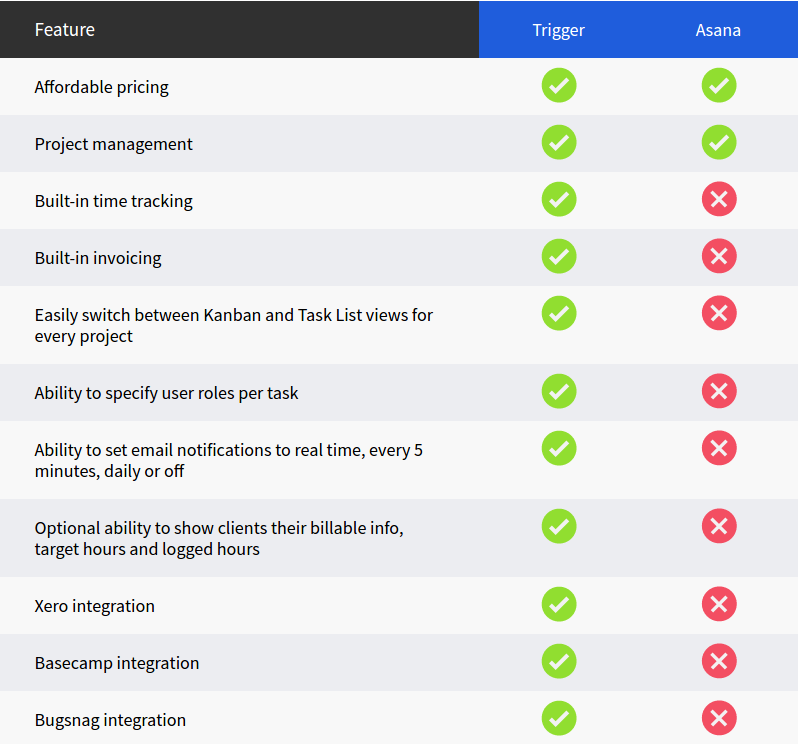
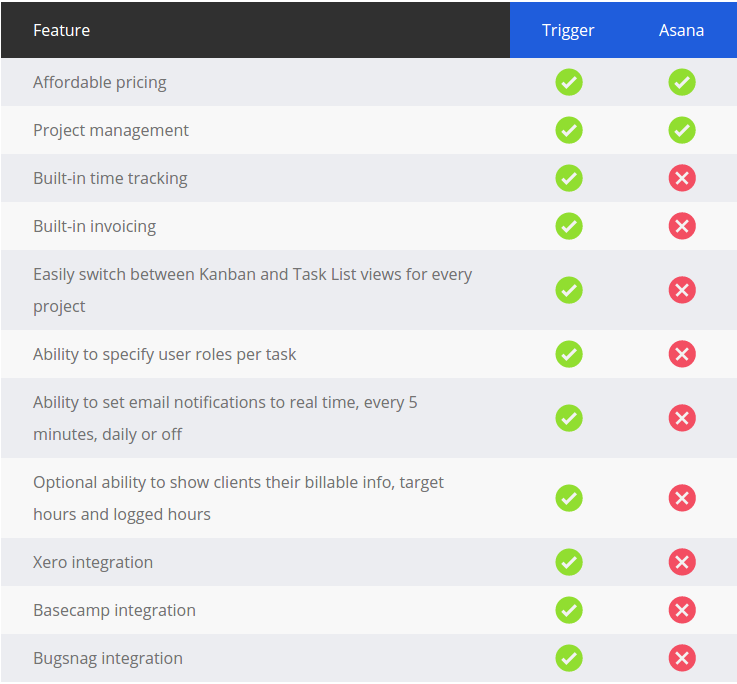
[T24972] Add and replace the 2 comparing table

diff --git a/_site/2017/05/7-reasons-why-trigger-is-the-best-alternative-to-workflowmax/index.html b/_site/2017/05/7-reasons-why-trigger-is-the-best-alternative-to-workflowmax/index.html
@@ -177,6 +177,10 @@
 
 <p> </p>
 
+<p><img src="/assets/compare-workflow-max/compare_table.png" alt="Trigger vs. WorkflowMax" /></p>
+
+<p> </p>
+
 <h2 id="want-to-try-trigger">Want to try Trigger?</h2>
 
 <p>Don’t just take our word for whether Trigger is the best alternative to WorkflowMax.</p>

diff --git a/_posts/2017-05-26-7-reasons-why-trigger-is-the-best-alternative-to-workflowmax.md b/_posts/2017-05-26-7-reasons-why-trigger-is-the-best-alternative-to-workflowmax.md
@@ -92,6 +92,10 @@ Unlike some of the big guns in the time tracking and project management industry
 
 &nbsp;
 
+![Trigger vs. WorkflowMax](/assets/compare-workflow-max/compare_table.png)
+
+&nbsp;
+
 ## Want to try Trigger? ##
 
 Don’t just take our word for whether Trigger is the best alternative to WorkflowMax.
